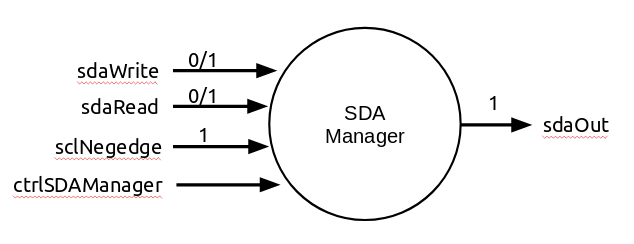
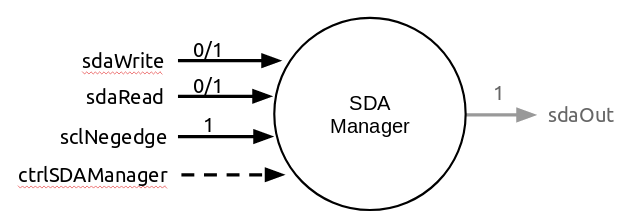
Very initial version of report

diff --git a/doc/report.tex b/doc/report.tex
@@ -1,5 +1,6 @@
 \documentclass{article}
 \usepackage{listings}
+\usepackage{graphicx}
 \begin{document}
 
 %=================================================================================
@@ -10,7 +11,7 @@
 
 %=================================================================================
 
-\section{Introduction} \label{sec-intro}
+\section{Introduction} \label{sec:intro}
 % Talk about SADF
 % Talk about ForSyDe
 % Talk about I2C
@@ -18,7 +19,7 @@
 
 %=================================================================================
 
-\section{I2C Bus and Protocol} \label{sec-proto}
+\section{I2C Bus and Protocol} \label{sec:proto}
 % resume the "1. Introduction" section of standard
 %=========================
 \subsection{Specification}
@@ -29,25 +30,80 @@
 
 %=================================================================================
 
-\section{I2C Slave} \label{sec-slave}
-% show image of pinout
+\section{I2C Slave} \label{sec:slave}
 % I2C Slave, only mandatory features
+The case of study in this project is an I2C slave module. For simplicity, only the mandatory features are implemented. It's responsible of converting user requests into the equivalent I2C stimulus. As a standard, user signals are orange, while I2C signals are grey.
+
+% show image of pinout
+\begin{figure}
+  \includegraphics[width=\linewidth]{img/pinout.png}
+  \caption{Pinout of the module}
+  \label{fig:pinout}
+\end{figure}
+
 % Brief about parts (basic signals, address, operations)
+It's implementation is divided in 3 parts: basic signals, address monitor and operations. The basic signals are a group of processes responsible for generating basic control tokens, like START and STOP conditions, as well as positive and negative edge of SCL. Address monitor is responsible of getting the address sent by the Master and checking if it matches the slave's address. Operations is the biggest part and takes care of all read and write features.
+
 % show image of overview
+\begin{figure}
+  \includegraphics[width=\linewidth]{img/overview.png}
+  \caption{Overview of the system. The customized circles represent groups of SADF processes}
+  \label{fig:overview}
+\end{figure}
+
 % START/STOP conditions can occur at any time
 % Because of that, we can't accumulate tokens
 % requires to consume tokens every iteration
+The I2C protocol defines a synchronous communication. However, START and STOP conditions are assynchronous and can happen at any time. An oversampling of the transmission lines is required and every value must be analyzed. This causes that processes always consume one token of I2C and basic signals, so they can keep up with unexpected conditions. Accumulation of those tokens was considered impossible for the implementation.
+
 %=========================
 \subsection{Basic signals}
+Basic signals are auxiliary control tokens that give informations of the current (SDA,SCL) tuple. Their objective is to simplify the other processes. They are simple kernels with a single scenario, but with a feedback with the previous tuple.
+\begin{figure}
+  \includegraphics[width=\linewidth]{img/block_basic.png}
+  \caption{Basic signals in SADF}
+  \label{fig:block_basic}
+\end{figure}
+
 %=========================
 \subsection{Address Monitor}
+Address monitor will wait until a START condition occur. In this case, it records the next 7 received bits and check if it's equal to the slave's address. If matches, the next bit is defines which operation will be performed: Master Read or Master Write.
+\begin{figure}
+  \includegraphics[width=\linewidth]{img/block_address.png}
+  \caption{Address Monitor in SADF}
+  \label{fig:block_address}
+\end{figure}
+
 %=========================
 \subsection{Operations}
+The operations are implemented with 3 detectors and 3 kernels. The detectors were merged in the Control process and it defines the scenario of each kernel. The kernels receive or send bytes according to the operation defined by the Address Monitor process.
+\begin{figure}
+  \includegraphics[width=\linewidth]{img/block_control.png}
+  \caption{Operations Control detector in SADF}
+  \label{fig:block_control}
+\end{figure}
+
+The operations are implemented by the respective blocks. They should never operate at the same time and they send tokens only to the SDA Manager. The manager is responsible for defining the output value in the negative edge of the SCL. On these blocks, user signals are used to define how the slave should behave during the transmission.
+\begin{figure}
+  \includegraphics[width=\linewidth]{img/block_read.png}
+  \caption{Operation Master Read kernel in SADF}
+  \label{fig:block_read}
+\end{figure}
+\begin{figure}
+  \includegraphics[width=\linewidth]{img/block_write.png}
+  \caption{Operation Master Write kernel in SADF}
+  \label{fig:block_write}
+\end{figure}
+\begin{figure}
+  \includegraphics[width=\linewidth]{img/block_sda.png}
+  \caption{Operation SDA Manager kernel in SADF}
+  \label{fig:block_sda}
+\end{figure}
 
 %=================================================================================
 
-\section{Implementation} \label{sec-imple}
-The implementation was divided in multiple files. Each process contains it's own file to improve manutenability. The following tree was generated according to what was discussed in Section \ref{sec-slave}.
+\section{Implementation} \label{sec:imple}
+The implementation was divided in multiple files. Each process contains it's own file to improve manutenability. The following tree was generated according to what was discussed in Section \ref{sec:slave}.
 \begin{lstlisting}[frame=single, basicstyle=\small, caption={Files of implementation}, captionpos=b]
 src
 |-- I2CSlaveAddressMonitor.hs
@@ -91,7 +147,7 @@ type ScenarCondition = ((Int,Int),
 
 The I2CSlaveStart is a kernel responsible for detecting START conditions. This is done by checking both current and past values of the I2C bus. A feedback provides the previous values, while the current comes directly from the input.
 A START condition happens when both SDA and SCL were high and then only SDA drops. In this case, the output token will be generated with the value '1'. Otherwise, the token will contain the value '0'.
-\begin{lstlisting}[frame=single, basicstyle=\small, language={Haskell}, caption={START condition detector in Haskell}, captionpos=b, label={func-behaviour}]
+\begin{lstlisting}[frame=single, basicstyle=\small, language={Haskell}, caption={START condition detector in Haskell}, captionpos=b, label={lst:behaviour}]
 conditStart :: [(Int,Int)]
             -> [(Int,Int)]
             -> [Int]
@@ -124,7 +180,7 @@ kernelStart inputs = start
 %=========================
 \subsection{I2CSlaveStart\_tb}
 
-To validate the I2CStart kernel, a simple testbench was developed. Two lists describe the oversampled values of both lines: SDA and SCL. The testbench prepares it to act as the input of 'conditStart' function (see listing \ref{func-behaviour}).
+To validate the I2CStart kernel, a simple testbench was developed. Two lists describe the oversampled values of both lines: SDA and SCL. The testbench prepares it to act as the input of 'conditStart' function (see listing \ref{lst:behaviour}).
 The correctness is shown via terminal. Expected values list is obtained directly with 'conditStart'. Result values list is obtained with 'kernelStart'. Those are compared and the success or failure is printed. Diff list indicates mismatches.
 
 \begin{lstlisting}[frame=single, basicstyle=\small, caption={I2CSlaveStart\_tb failure screen example}, captionpos=b]
@@ -147,7 +203,7 @@ runhaskell -i../src I2CSlaveStart_tb.hs
 
 %=================================================================================
 
-\section{Results} \label{sec-resul}
+\section{Results} \label{sec:resul}
 % still implementing, but have some partial results
 The I2C Slave complete implementation is still pending. However, partial results with the 'I2CSlaveStart' kernel helped to plan an organized structure for implementation of the rest of the system. 
 
@@ -157,7 +213,7 @@ The developed testbench tries all combinations of the pair current and past valu
 
 %=================================================================================
 
-\section{Conclusion} \label{sec-concl}
+\section{Conclusion} \label{sec:concl}
 % SADF not an interesting MoC for I2C due unexpected START/STOP conditions
 The SADF MoC is not very interesting to implement I2C. That's because Start and Stop conditions can occur at any time. This specification requires that all blocks monitor the basic signals on every iteration. Token accumulation will cause desynchronization, so all tokens must be consumed immediately.
 
